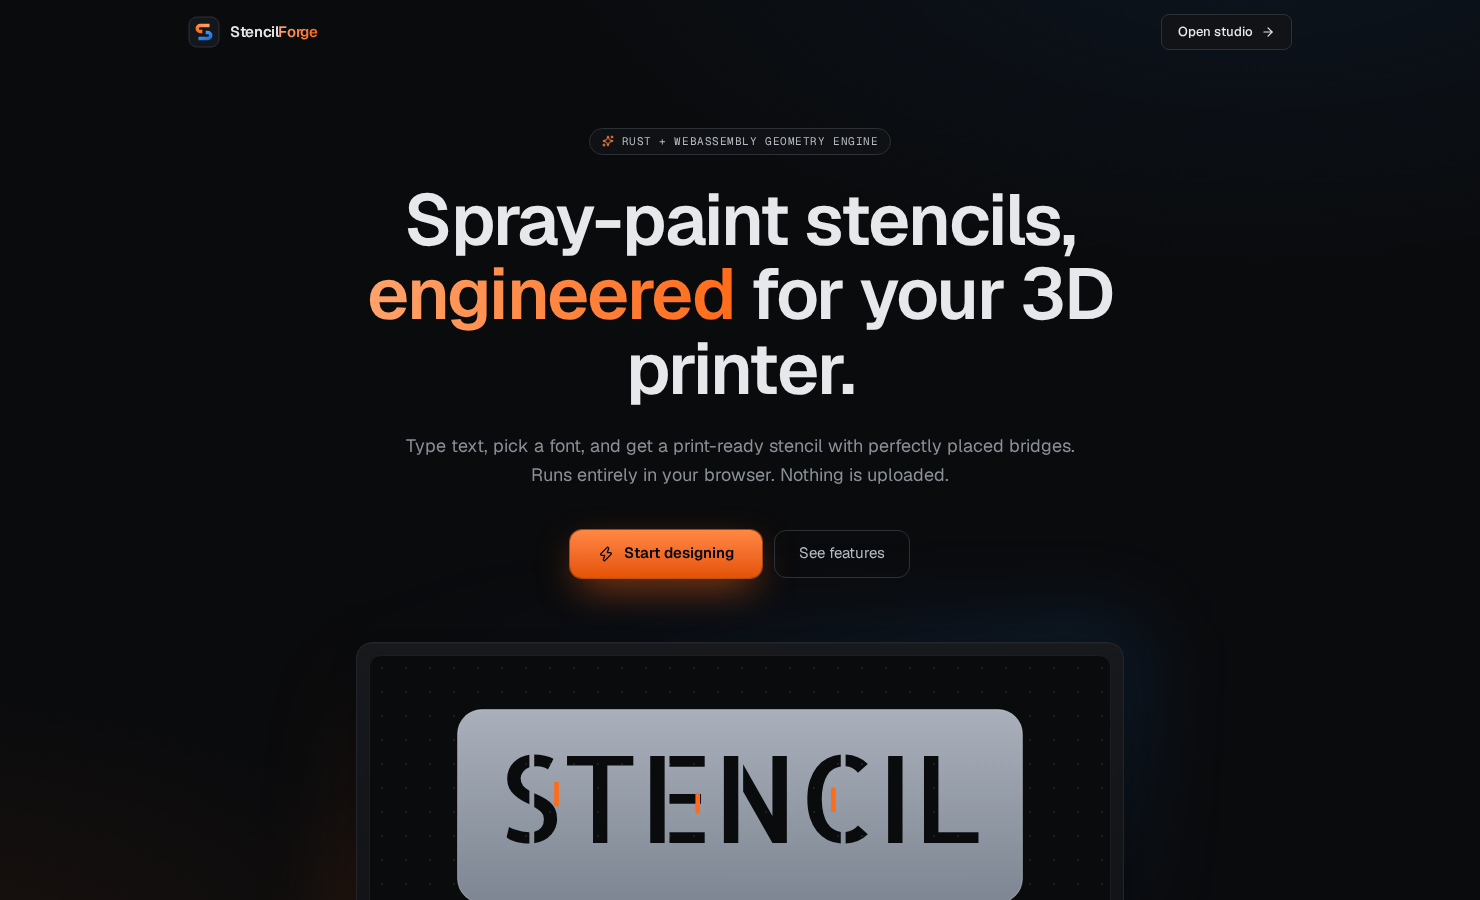
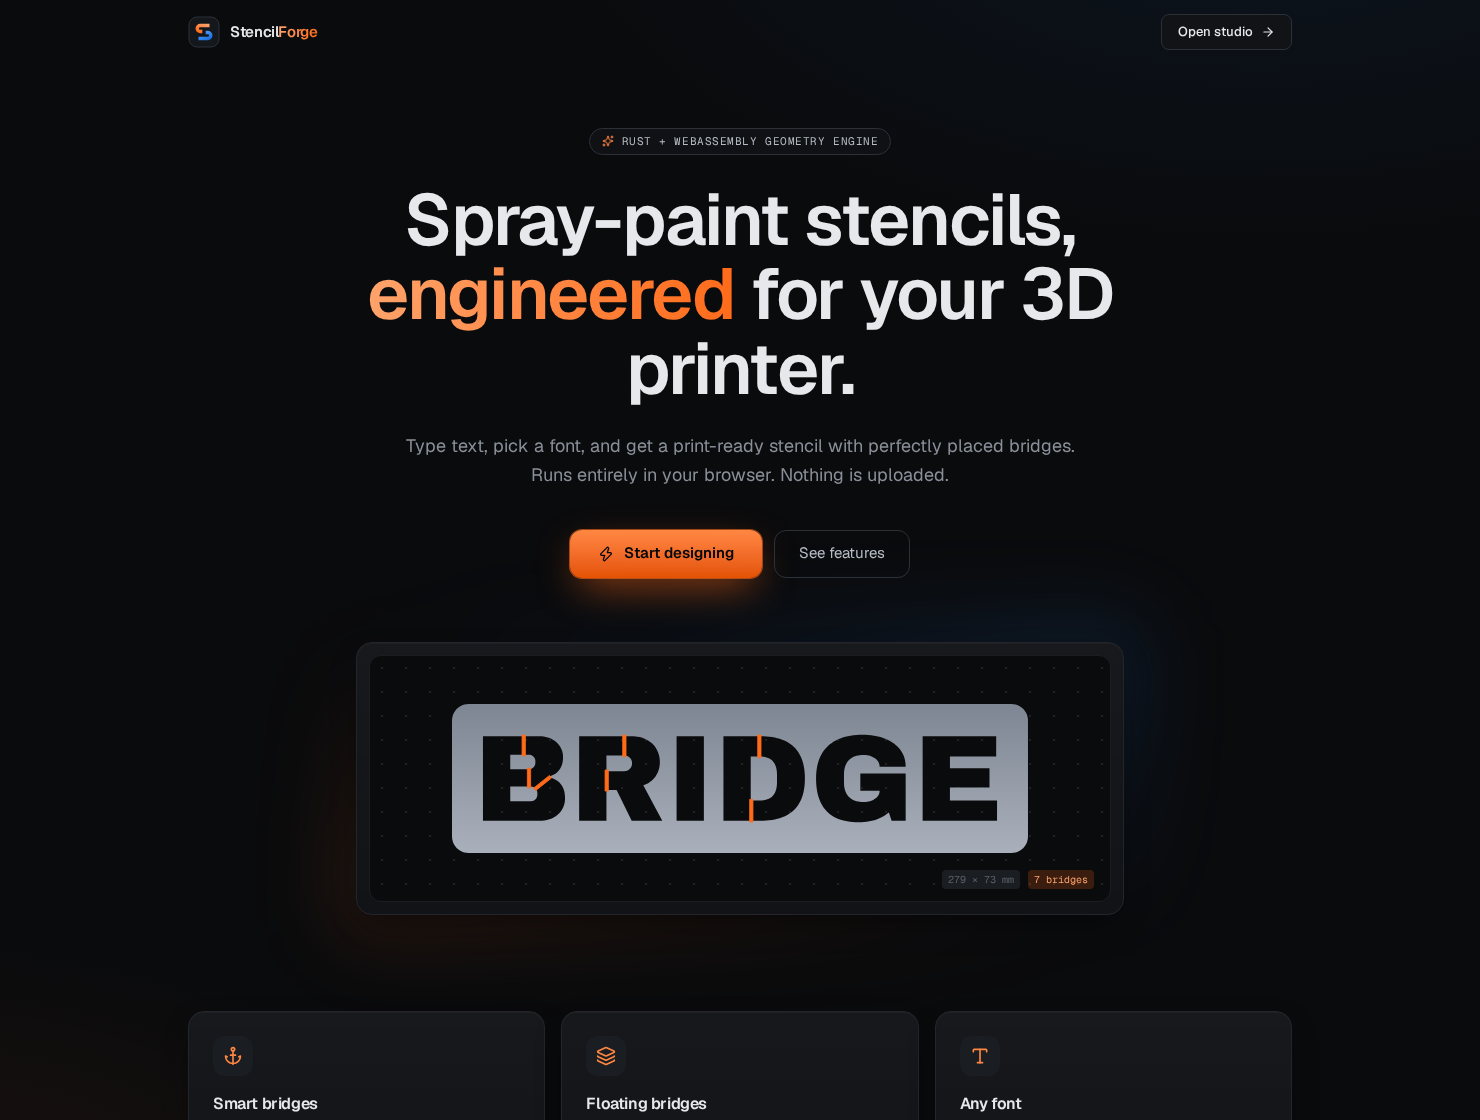
Landing hero: show real engine output with bridges
The hand-drawn mock used a stencil font (no islands to bridge) with
decorative bars. Replace it with the engine's actual output for
"BRIDGE" (4 islands, 7 bridges) and refresh the README screenshot.

Claude-Session: https://claude.ai/code/session_01Feesj2F6oQon7ZWjBc9dCJ

diff --git a/src/app/page.tsx b/src/app/page.tsx
@@ -59,32 +59,15 @@ export default function Home() {
           <div className="absolute -inset-6 -z-10 rounded-[2rem] bg-gradient-to-tr from-ember-500/15 via-transparent to-volt-500/15 blur-2xl" />
           <div className="panel rounded-2xl p-3">
             <div className="dot-grid relative overflow-hidden rounded-xl border border-ink-700 bg-ink-900 px-6 py-12">
-              <svg viewBox="0 0 620 220" className="mx-auto w-full max-w-xl">
-                <defs>
-                  <linearGradient id="slab" x1="0" y1="1" x2="0" y2="0">
-                    <stop offset="0" stopColor="#7e8693" />
-                    <stop offset="1" stopColor="#a9b0bb" />
-                  </linearGradient>
-                  <mask id="cut">
-                    <rect width="620" height="220" fill="white" />
-                    <text x="310" y="150" textAnchor="middle" fontSize="130" fill="black" style={{ fontFamily: "'Hero Stencil', sans-serif" }}>
-                      STENCIL
-                    </text>
-                  </mask>
-                </defs>
-                <rect x="6" y="6" width="608" height="208" rx="26" fill="url(#slab)" mask="url(#cut)" stroke="rgb(255 255 255 / 0.4)" />
-                {/* bridge accents */}
-                <g fill="#ff6b1a">
-                  <rect x="110" y="84" width="5" height="26" />
-                  <rect x="262" y="96" width="5" height="22" />
-                  <rect x="408" y="90" width="5" height="26" />
-                </g>
-                <g stroke="#2e8bff" strokeWidth="1.2" fill="none" opacity="0.8">
-                  <path d="M6 218 H614" strokeDasharray="4 4" />
-                </g>
-              </svg>
+              {/* real engine output: "BRIDGE" in Archivo Black, 4 islands anchored by 7 bridges */}
+              {/* eslint-disable-next-line @next/next/no-img-element */}
+              <img
+                src={`${process.env.NEXT_PUBLIC_BASE_PATH ?? ""}/hero-stencil.svg`}
+                alt="The word BRIDGE as a stencil, with orange bridges anchoring the enclosed parts of B, R and D"
+                className="mx-auto w-full max-w-xl"
+              />
               <div className="absolute right-4 bottom-3 flex gap-2 font-mono text-[10px] text-ink-300">
-                <span className="rounded bg-ink-700 px-1.5 py-0.5">142 × 62 mm</span>
+                <span className="rounded bg-ink-700 px-1.5 py-0.5">279 × 73 mm</span>
                 <span className="rounded bg-ember-500/20 px-1.5 py-0.5 text-ember-300">7 bridges</span>
               </div>
             </div>

diff --git a/src/app/globals.css b/src/app/globals.css
@@ -56,12 +56,6 @@
   color-scheme: dark;
 }
 
-@font-face {
-  font-family: "Hero Stencil";
-  src: url("../../public/fonts/AllertaStencil-Regular.ttf") format("truetype");
-  font-display: swap;
-}
-
 html, body {
   height: 100%;
   background: var(--color-ink-900);
